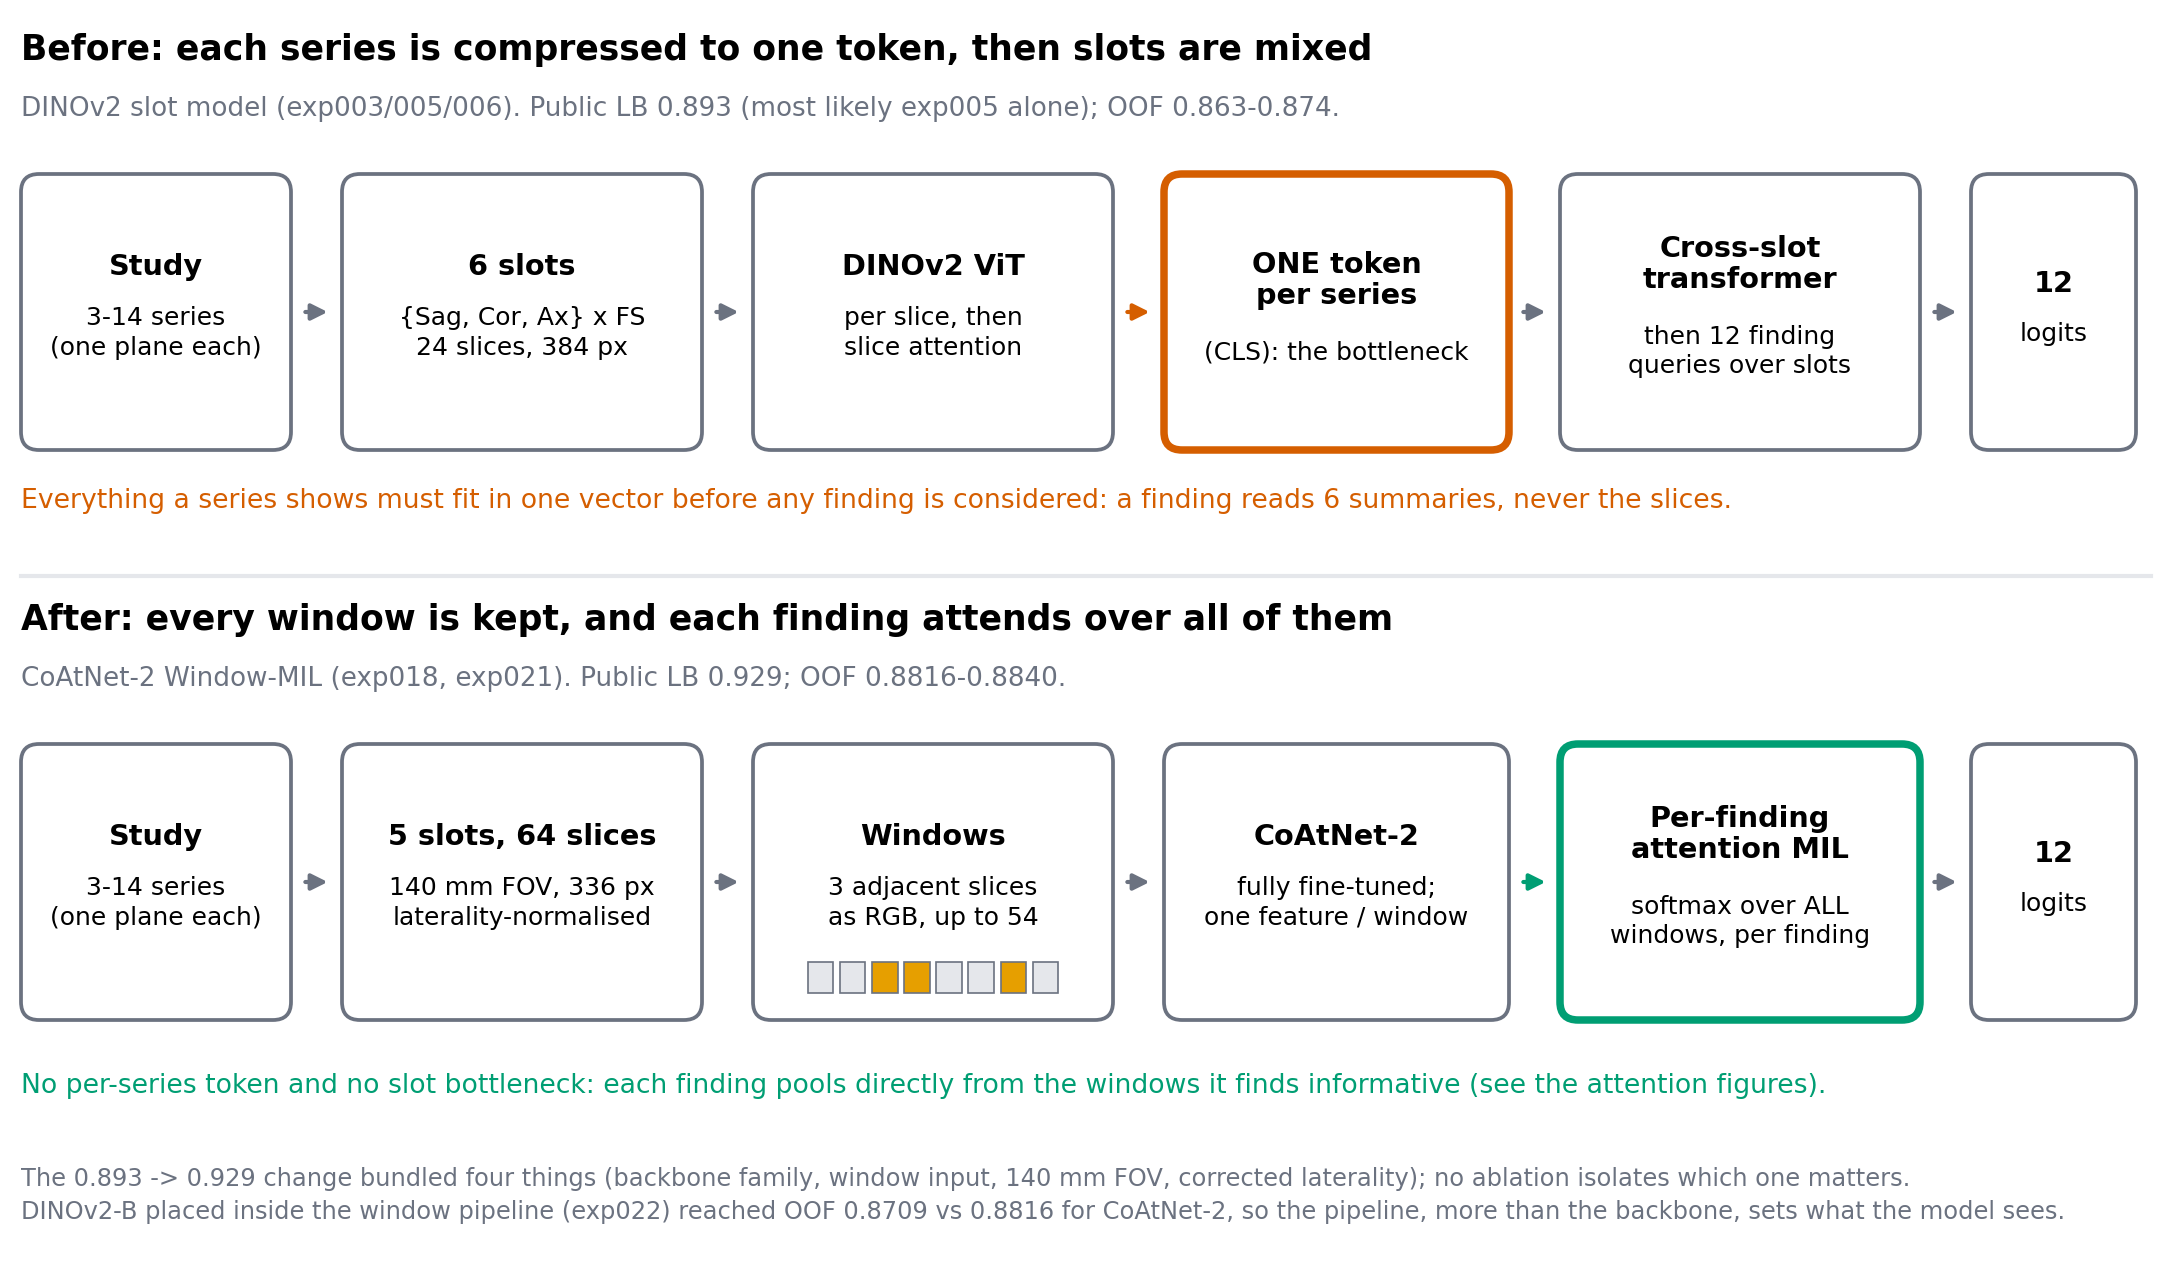
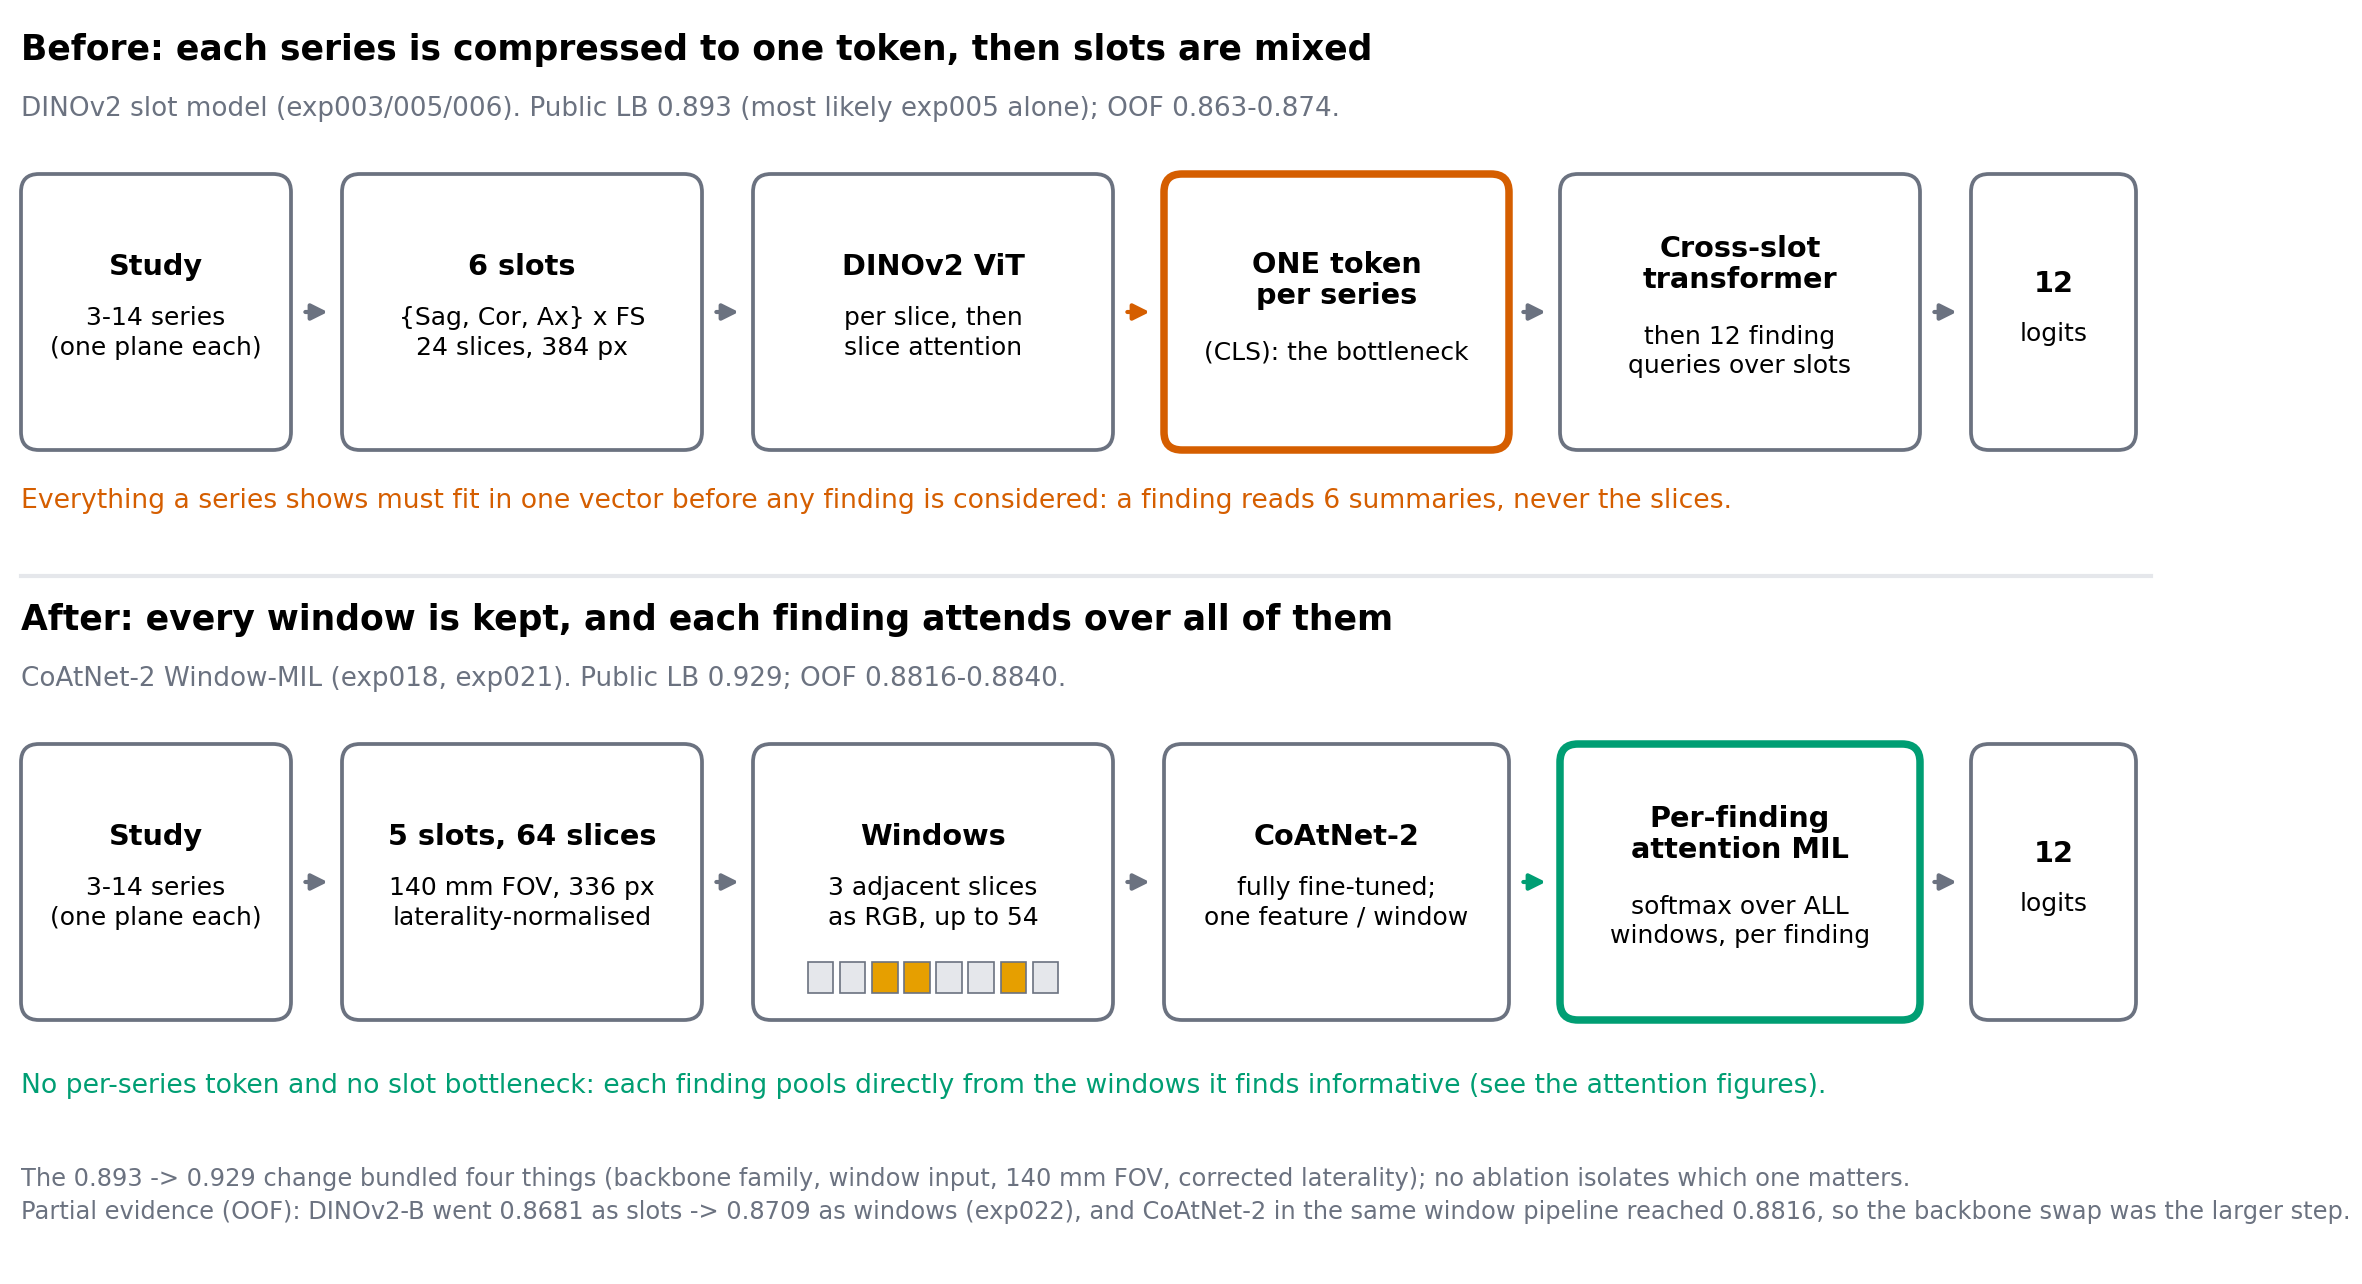
Correct the pipeline-vs-backbone reading of exp022: OOF shows the backbone swap (+0.011) was larger than slots->windows with DINOv2-B (+0.003)

diff --git a/scripts/fig_formulation.py b/scripts/fig_formulation.py
@@ -114,8 +114,8 @@ def main() -> None:
             "informative (see the attention figures).", fontsize=6.4, color=GRN, va="center")
 
     ax.text(0.03, 0.55, "The 0.893 -> 0.929 change bundled four things (backbone family, window input, 140 mm FOV, corrected "
-            "laterality); no ablation isolates which one matters.\nDINOv2-B placed inside the window pipeline (exp022) reached OOF "
-            "0.8709 vs 0.8816 for CoAtNet-2, so the pipeline, more than the backbone, sets what the model sees.",
+            "laterality); no ablation isolates which one matters.\nPartial evidence (OOF): DINOv2-B went 0.8681 as slots -> 0.8709 as windows (exp022), "
+            "and CoAtNet-2 in the same window pipeline reached 0.8816, so the backbone swap was the larger step.",
             fontsize=5.8, color=G, va="top", linespacing=1.45)
     fc.save(fig, "formulation_before_after")
     plt.close(fig)

diff --git a/docs/KAGGLE_WRITEUP_DRAFT.md b/docs/KAGGLE_WRITEUP_DRAFT.md
@@ -85,8 +85,9 @@ had no side normalisation at all.
 **The design follows a public notebook** ([dreaddevelopment, "Knee MRI: twelve findings from a single model"](https://www.kaggle.com/code/dreaddevelopment/knee-mri-twelve-findings-from-a-single-model));
 I re-implemented it, trained on my own labels and folds, and used no third-party weights or labels. The jump from 0.893 to
 0.929 bundled four changes (backbone family, window input, wider field of view, corrected laterality) and I did not
-isolate them. A DINOv2-B backbone placed inside the same window pipeline scored lower (OOF 0.8709 vs 0.8816), which hints
-that the pipeline matters more than the backbone, but that is a hint.
+isolate them. The one partial test points at the backbone: DINOv2-B scored 0.8681 OOF as a slot model and 0.8709 inside the
+window pipeline (+0.003), while CoAtNet-2 in the same pipeline scored 0.8816 (+0.011 more). The leaderboard, though, moved
++0.036 against about +0.014 on the proxy, so the proxy may not capture everything that changed.
 
 **Where it looks.** Because each finding attends over windows, the attention can be inspected. Over all 58 gold studies,
 the ACL puts 62% of its attention on sagittal fat-suppressed slices (30% if uniform), Baker's cyst 45% on axial (20%).
